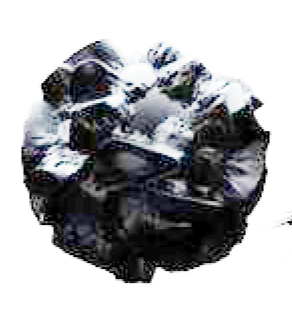
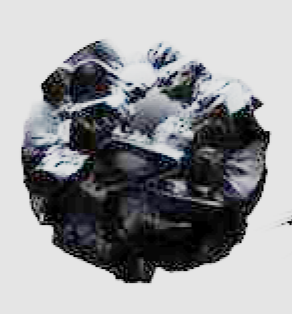
fix: 09.02.2024

diff --git a/src/service-7.html b/src/service-7.html
@@ -80,7 +80,73 @@
             </div>
           </div>
         </section>
-        <include src="./components/_adventages.html"></include>
+        <section class="adventages wow animate__fadeInUp">
+          <div class="adventages__container container">
+            <div class="adventages__left">
+              <div class="adventages__title">Преимущества работы с нами</div>
+              <div class="adventages__options">
+                <div class="adventages__options-title">Варианты разработки:</div>
+                <ul class="adventages__options-list descktop">
+                  <li class="adventages__options-item">Android</li>
+                  <li class="adventages__options-item">iOS</li>
+                  <li class="adventages__options-item">Web-приложения</li>
+                  <div class="adventages__options-list_background">
+                    <img src="./assets/images/adventages-list-background.webp" alt="" />
+                  </div>
+                </ul>
+              </div>
+            </div>
+            <div class="adventages__right">
+              <div class="adventages__column">
+                <div class="adventages__column-head">
+                  <div class="adventages__column-title">Сделаем все для вашего комфорта.</div>
+                  <div class="adventages__column-number">#1</div>
+                </div>
+                <p class="adventages__column-text">
+                  Думаем о вашем времени. Разработаем сайт любой сложности, с учетом ваших пожеланий. И
+                  никаких шаблонов
+                </p>
+                <p class="adventages__column-text">
+                  Ценим ваше время. Пока вы развиваете бизнес, создадим сайт, который легко обновлять и
+                  поддерживать.
+                </p>
+                <p class="adventages__column-text">
+                  Настроим под ключ. Передадим вам полностью настроенный и оптимизированный ресурс, поможем
+                  дальнейшим управлением.
+                </p>
+              </div>
+              <div class="adventages__options mobile">
+                <div class="adventages__options-title">Варианты разработки:</div>
+                <ul class="adventages__options-list">
+                  <li class="adventages__options-item">Android</li>
+                  <li class="adventages__options-item">iOS</li>
+                  <li class="adventages__options-item">Web-приложения</li>
+                  <div class="adventages__options-list_background">
+                    <img src="./assets/images/adventages-list-background.webp" alt="" />
+                  </div>
+                </ul>
+              </div>
+              <div class="adventages__column">
+                <div class="adventages__column-head">
+                  <div class="adventages__column-title">Работа полного цикла, закроем все задачи сами.</div>
+                  <div class="adventages__column-number">#2</div>
+                </div>
+                <p class="adventages__column-text">
+                  Сбор данных. <br />
+                  Изучаем направление компании, делаем анализ конкурентов и целевой аудитории
+                </p>
+                <p class="adventages__column-text">
+                  Дизайн и проектирование <br />
+                  Создаем адаптивный дизайн и контент с учетом требований поисковых систем
+                </p>
+                <p class="adventages__column-text">
+                  Настройка сайта. <br />
+                  Подключаем веб-аналитику, SEO, SMM, контекстную рекламу и все необходимые инструменты
+                </p>
+              </div>
+            </div>
+          </div>
+        </section>
         <section class="our-cases wow animate__fadeInUp">
           <div class="our-cases__container container">
             <div class="our-cases__head">

diff --git a/src/components/_adventages.html b/src/components/_adventages.html
@@ -35,9 +35,9 @@
       <div class="adventages__options mobile">
         <div class="adventages__options-title">Варианты разработки:</div>
         <ul class="adventages__options-list">
-          <li class="adventages__options-item">Android</li>
-          <li class="adventages__options-item">iOS</li>
-          <li class="adventages__options-item">Web-приложения</li>
+          <li class="adventages__options-item">Tilda</li>
+          <li class="adventages__options-item">1c Битрикс</li>
+          <li class="adventages__options-item">Word Press</li>
           <div class="adventages__options-list_background">
             <img src="./assets/images/adventages-list-background.webp" alt="" />
           </div>

diff --git a/src/scss/components/_our-services.scss b/src/scss/components/_our-services.scss
@@ -93,7 +93,7 @@
       width: 100%;
       height: 100%;
       object-fit: cover;
-      mix-blend-mode: multiply;
+      // mix-blend-mode: multiply;
     }
     @include small-tablet {
       width: 21.6rem;

diff --git a/src/scss/components/_seo.scss b/src/scss/components/_seo.scss
@@ -140,7 +140,7 @@
       width: 100%;
       height: 100%;
       object-fit: cover;
-      mix-blend-mode: multiply;
+      // mix-blend-mode: multiply;
     }
     @include small-tablet {
       width: 31rem;
